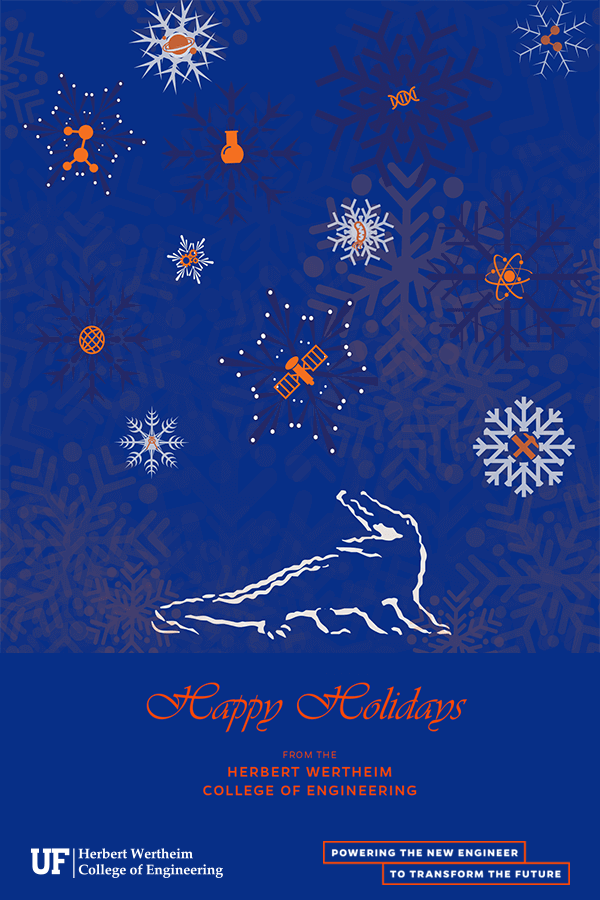
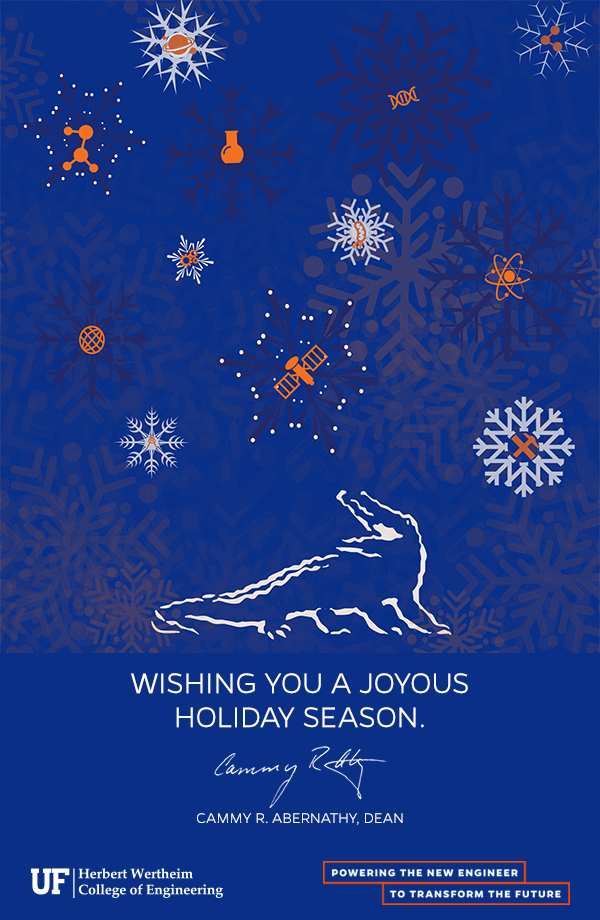
Change holiday card message and include dean's signature

diff --git a/holidaycard/2016/holidaycard-inlined.html b/holidaycard/2016/holidaycard-inlined.html
@@ -47,6 +47,11 @@
 			outline: none;
 			text-decoration: none;
 		}
+		.content {
+			font-family:Helvetica, Arial, sans-serif;
+			font-size:16px; 
+			color: #092f87;
+		}
 		.footer {
 			padding: 18px 18px 9px 18px; 
 			background-color: #FFFFFF;
@@ -90,8 +95,8 @@
 						</td>
 					</tr>
 					<tr>
-						<td bgcolor="#ffffff" style="padding: 0;">
-							<img src="https://www.eng.ufl.edu/eblasts/holidaycard/2016/images/holiday-card-2016.png" width="600" height="900" align="left" class="header-image" alt="Happy Holidays from the Herbert Wertheim College of Engineering" style="height: auto;display: block;margin: 0;padding: 0;border: 0;max-width: 600px;vertical-align: bottom;outline: none;text-decoration: none;">
+						<td bgcolor="#ffffff" class="content" style="padding: 0;font-family: Helvetica, Arial, sans-serif;font-size: 16px;color: #092f87;">
+							<img src="https://www.eng.ufl.edu/eblasts/holidaycard/2016/images/holiday-card-2016.png" width="600" height="920" align="left" class="header-image" alt="Wishing you a joyous holiday season. Cammy R. Abernathy, Dean, Herbert Wertheim College of Engineering." style="height: auto;display: block;margin: 0;padding: 0;border: 0;max-width: 600px;vertical-align: bottom;outline: none;text-decoration: none;">
 						</td>
 					</tr>
 					<tr>

diff --git a/holidaycard/2016/holidaycard.html b/holidaycard/2016/holidaycard.html
@@ -47,6 +47,11 @@
 			outline: none;
 			text-decoration: none;
 		}
+		.content {
+			font-family:Helvetica, Arial, sans-serif;
+			font-size:16px; 
+			color: #092f87;
+		}
 		.footer {
 			padding: 18px 18px 9px 18px; 
 			background-color: #FFFFFF;
@@ -90,8 +95,8 @@
 						</td>
 					</tr>
 					<tr>
-						<td bgcolor="#ffffff">
-							<img src="https://www.eng.ufl.edu/eblasts/holidaycard/2016/images/holiday-card-2016.png" width="600" height="900" align="left" class="header-image" alt="Happy Holidays from the Herbert Wertheim College of Engineering" />
+						<td bgcolor="#ffffff" class="content">
+							<img src="https://www.eng.ufl.edu/eblasts/holidaycard/2016/images/holiday-card-2016.png" width="600" height="920" align="left" class="header-image" alt="Wishing you a joyous holiday season. Cammy R. Abernathy, Dean, Herbert Wertheim College of Engineering." />
 						</td>
 					</tr>
 					<tr>
